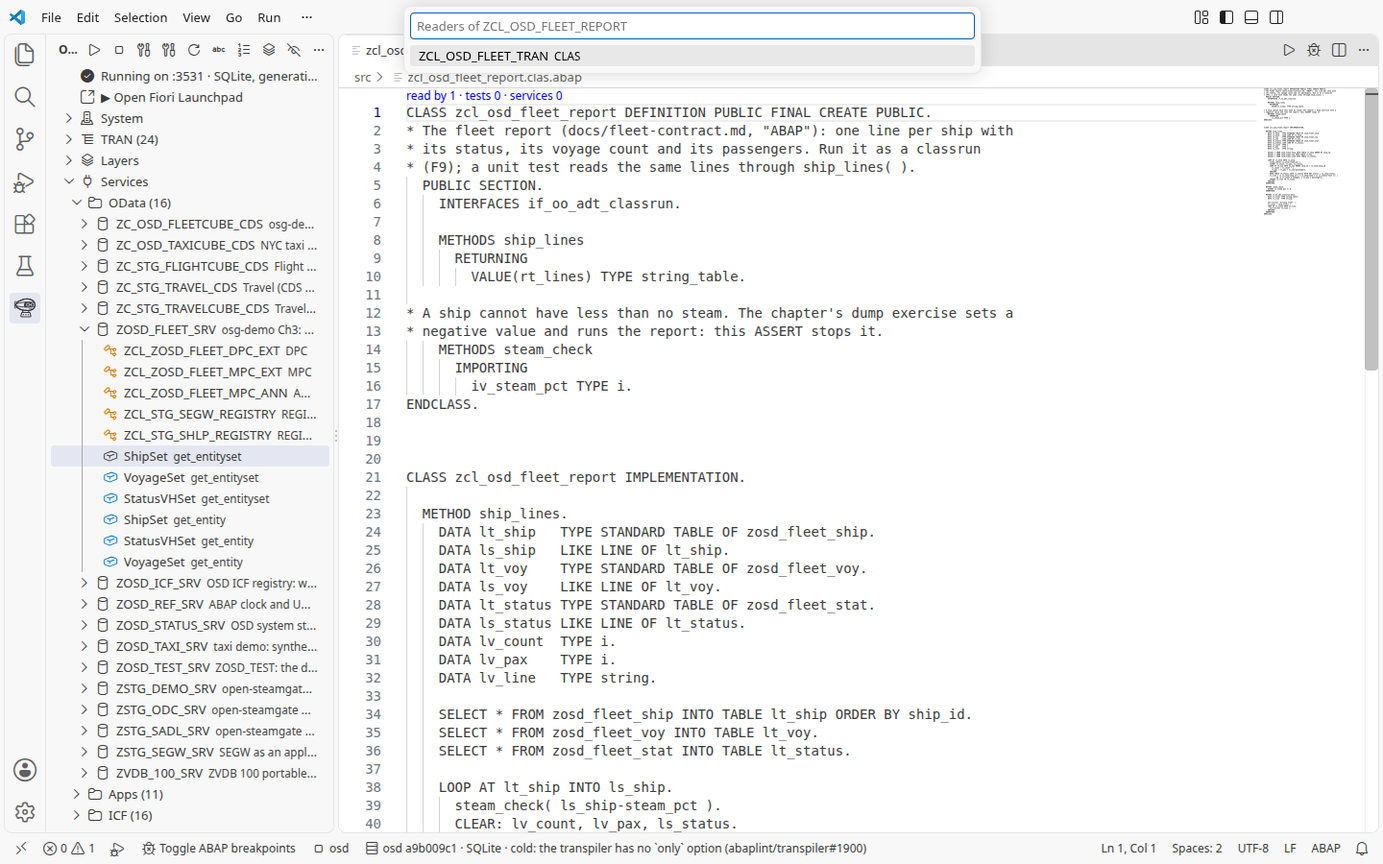
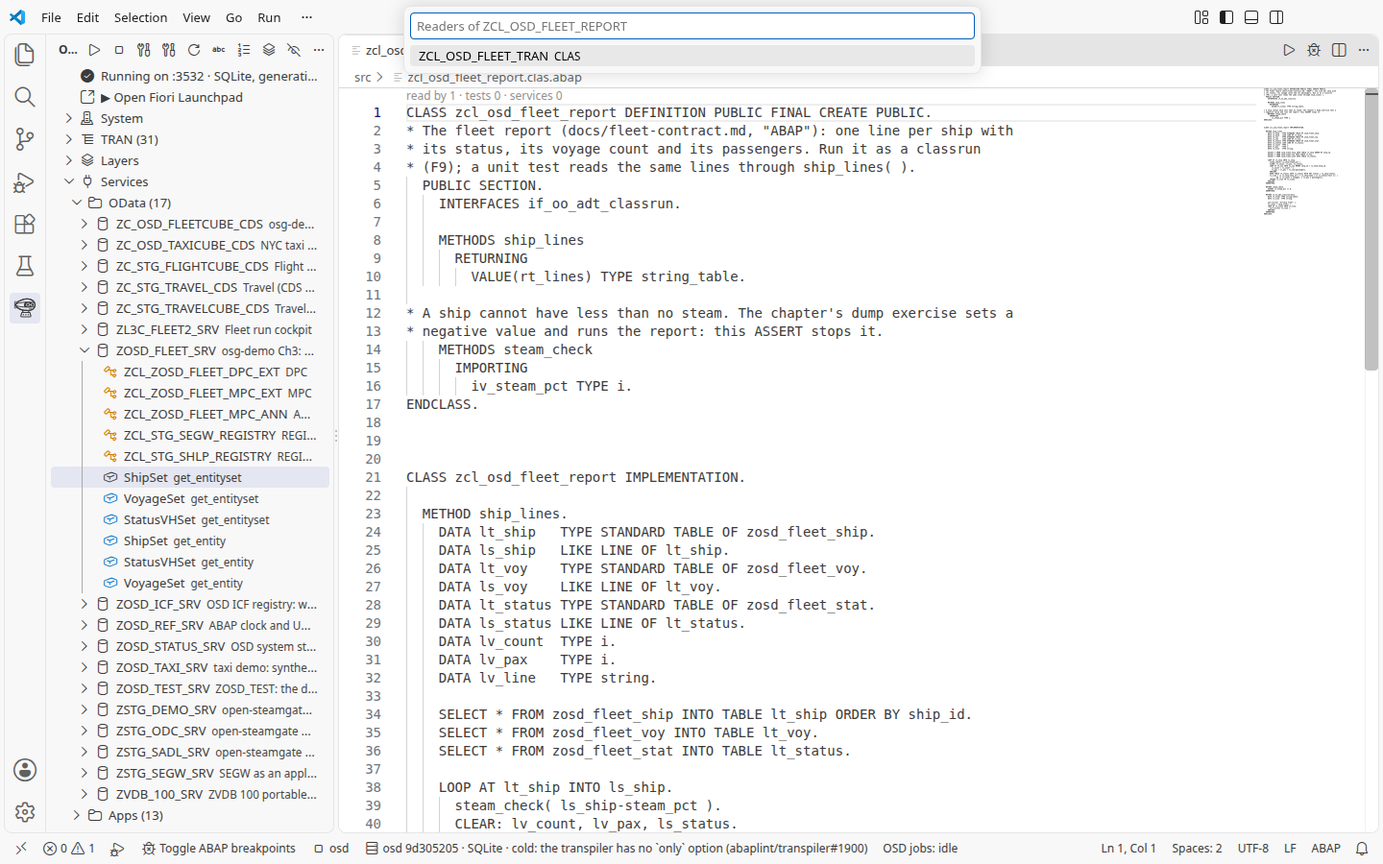
Refresh EN and RU book pictures for VS Code 0.6.1621

Changed region(s): [[0.0625, 0.3733, 0.2188, 0.9644], [0.2812, 0.9644, 0.6875, 0.9956], [0.2812, 0.0933, 0.4062, 0.1244]]

diff --git a/book/ru/15-vscode.md b/book/ru/15-vscode.md
@@ -15,7 +15,11 @@
 диагностику. Ссылки на описание поддержки объясняют замечание. Сканер
 проверяет известные конструкции; чистое представление не доказывает, что
 весь объект активируется на системе.
-<!-- shot: диагностика OSD kernel в Problems и ссылка на описание поддержки -->
+
+На снимке показана временная правка примера Мандельброта: байтовые операнды
+заменены целыми числами для демонстрации диагностики.
+
+![Problems: OSD kernel отклоняет BIT-AND для целых чисел; ссылка ведёт к объяснению поддержки](../img/vscode-kernel-diagnostic.png)
 
 Поведение отладчика и обработчика описано в
 [руководстве расширения на теге](https://github.com/oisee/open-steamgate/blob/vscode-v0.6.1621/editors/vscode/README.md);
@@ -37,8 +41,7 @@
    «redefined» с номером строки и ссылкой на нее; остальные - «inherited
    (generic)».
 
-   <!-- shot: vscode-services — обновить для новой версии расширения и строки состояния -->
-   ![Представление System: ZOSD_FLEET_SRV с классами и методами наборов сущностей, и ее описание](../img/vscode-services.png)
+   ![ZOSD_FLEET_SRV: классы и методы entity set в System, рядом сведения о сервисе и модели](../img/vscode-services.png)
 
 3. Щелкните **ShipSet get_entityset**. Ожидается: открывается
    [zcl_zosd_fleet_dpc_ext.clas.abap](../../src/zcl_zosd_fleet_dpc_ext.clas.abap)
@@ -59,8 +62,7 @@
    классу. В последнем запросе есть `$filter`, и над ним написано
    `unresolved: query options are unsupported`.
 
-   <!-- shot: vscode-http-lens — обновить для новой версии расширения и строки состояния -->
-   ![http/fleet.http: над каждым простым GET метод DPC, в который он входит; запрос с $filter не сопоставлен с методом](../img/vscode-http-lens.png)
+   ![Статические маршруты CodeLens над тремя обычными GET; запрос с $filter остаётся unresolved](../img/vscode-http-lens.png)
 
 5. Щелкните строку над `GET` запроса **All ships**. Ожидается: класс DPC
    открывается на строке 112, `shipset_get_entityset`.
@@ -82,7 +84,9 @@
    запрос останавливается на точке останова. Variables и подсказка показывают
    значения ABAP; структуры раскрываются в компоненты, таблицы — в
    пронумерованные строки, как в главе 2. Остановите сеанс (Shift+F5) и уберите точку.
-   <!-- shot: отладчик в shipset_get_entityset со значениями ABAP -->
+
+   ![Остановка в shipset_get_entityset: переменные запроса показаны как значения ABAP](../img/vscode-debug-entityset.png)
+
 7. Над тем же методом щелкните **▶ Call ShipSet**. Ожидается: рядом с кодом
    отправленный запрос,
    `/sap/opu/odata/sap/ZOSD_FLEET_SRV/ShipSet?$top=20&$format=json`, затем
@@ -90,8 +94,7 @@
    `StatusText`, который заполнил метод. **raw JSON** показывает ответ как
    есть.
 
-   <!-- shot: vscode-call-entityset — обновить для новой версии расширения и строки состояния -->
-   ![Call ShipSet: слева метод DPC, справа его HTTP-ответ таблицей](../img/vscode-call-entityset.png)
+   ![Call ShipSet: код DPC рядом с HTTP 200 и шестью строками кораблей с StatusText](../img/vscode-call-entityset.png)
 
 ## Кто использует этот класс
 
@@ -102,8 +105,7 @@
    открывает его. Собственный тестовый класс лежит в include самого класса и
    в списке не появляется.
 
-   <!-- shot: vscode-readers — обновить для новой версии расширения и строки состояния -->
-   ![Кто использует ZCL_OSD_FLEET_REPORT: один класс](../img/vscode-readers.png)
+   ![Readers для ZCL_OSD_FLEET_REPORT: список показывает ZCL_OSD_FLEET_TRAN](../img/vscode-readers.png)
 
 ## Отправить запросы самому
 

diff --git a/book/ru/02-debug-tests-dumps.md b/book/ru/02-debug-tests-dumps.md
@@ -11,14 +11,12 @@
 | [ZOSD_FLEET_STAT](../../src/ddic/zosd_fleet_stat.tabl.xml) | 3 статуса |
 | [ZC_OSD_FLEETCUBE](../../src/cds/zc_osd_fleetcube.ddls.asddls) | 20 строк рейсов (глава 5) |
 
-<!-- shot: vscode-data-preview — обновить для новой версии расширения и строки состояния -->
-![F8 на ZOSD_FLEET_SHIP: Data Preview с шестью кораблями](../img/vscode-data-preview.png)
+![F8 на ZOSD_FLEET_SHIP: шесть строк кораблей в Data Preview, OSD jobs idle](../img/vscode-data-preview.png)
 
 1. Откройте [ZCL_OSD_FLEET_REPORT](../../src/zcl_osd_fleet_report.clas.abap) и нажмите **F9**. Ожидается: консоль показывает `Airship fleet` и по одной строке на корабль, начиная с `S001 Albatross (Aloft): 6 voyages, 305 passengers` и заканчивая `S006 Old Boiler (Maintenance): 0 voyages, 0 passengers`.
 2. В `ship_lines` поставьте точку останова на `steam_check( ls_ship-steam_pct ).` клавишами **Ctrl+Shift+B** и выполните **osd: Run as ABAP Application with debugger**. Отладчик подключается автоматически. Ожидается: VS Code останавливается на этой строке, в `ls_ship` первый корабль, `S001`. Variables и подсказка при наведении показывают значения ABAP: раскройте `ls_ship`, показанный как `{…} (structure)`, чтобы увидеть компоненты; `ship_id` равен `'S001' (c4)`, а `steam_pct` — `82 (i)`. Таблицы раскрываются в пронумерованные строки. Продолжите клавишей **F8**: пока точка останова на месте, выполнение снова остановится на следующем корабле, поэтому снимите ее (снова **Ctrl+Shift+B**) и нажмите **F8** еще раз; консоль выводит те же шесть строк, что и в шаге 1. После этого остановите сеанс отладки (**Run > Stop Debugging**); F9 и F8 снова запускают код, как только отладчик больше не стоит на строке.
 
-   <!-- shot: vscode-debugger — ABAP structure components and scalar values -->
-   ![Остановка на steam_check: локальные переменные ship_lines и стек вызовов](../img/vscode-debugger.png)
+   ![Остановка на steam_check: компоненты ABAP структуры ls_ship, ship_id S001 и steam_pct 82](../img/vscode-debugger.png)
 
 3. Намеренно сломайте тест. В [тестовом классе](../../src/zcl_osd_fleet_report.clas.testclasses.abap) удалите ведущий `*` у объявления `broken_on_purpose` (строка 11) и у его метода (строки 40-44), нажмите **Ctrl+F3** и запустите тесты `ZCL_OSD_FLEET_REPORT` в Testing. Ожидается: `counts_voyages` зеленый, а `broken_on_purpose` красный с проваленной проверкой: он ожидает `1 voyages` для S006, а отчет выдает `0 voyages`. Верните все шесть `*`, активируйте и перезапустите: остается только `counts_voyages`, зеленый.
 4. Вызовите дамп в отчете. Пар у корабля не может быть отрицательным, и `steam_check` проверяет это с помощью `ASSERT iv_steam_pct >= 0`. Задайте кораблю отрицательный пар через OData (вызовы объясняются в главе 3):

diff --git a/book/15-vscode.md b/book/15-vscode.md
@@ -14,7 +14,11 @@ execution. `warning` lowers their severity; `refuse` also blocks object runs
 and tests; `off` disables these diagnostics. Their support links explain the
 finding. This scanner covers known forms; a clean view does not prove that a
 whole object will activate on a system.
-<!-- shot: OSD kernel diagnostic in Problems and its support link -->
+
+The picture uses a temporary edit of the Mandelbrot example: its byte operands
+are changed to integers to demonstrate the diagnostic.
+
+![Problems: OSD kernel rejects BIT-AND on integers; the diagnostic links to its support explanation](img/vscode-kernel-diagnostic.png)
 
 The debugger and worker behavior is described in the tag's
 [extension guide](https://github.com/oisee/open-steamgate/blob/vscode-v0.6.1621/editors/vscode/README.md);
@@ -36,8 +40,7 @@ The debugger and worker behavior is described in the tag's
    "redefined" with a link to their line; the others are "inherited
    (generic)".
 
-   <!-- shot: vscode-services — refresh for the new extension baseline and status bar -->
-   ![The System view: ZOSD_FLEET_SRV with its classes and entity-set methods, and its details](img/vscode-services.png)
+   ![ZOSD_FLEET_SRV: classes and entity-set methods in System, service and model details beside them](img/vscode-services.png)
 
 3. Click **ShipSet get_entityset**. Expected:
    [zcl_zosd_fleet_dpc_ext.clas.abap](../src/zcl_zosd_fleet_dpc_ext.clas.abap)
@@ -58,8 +61,7 @@ Client, httpYac and JetBrains also read.
    the generated class. The last request has a `$filter` and says
    `unresolved: query options are unsupported`.
 
-   <!-- shot: vscode-http-lens — refresh for the new extension baseline and status bar -->
-   ![http/fleet.http: above each plain GET the DPC method it enters; the $filter request unresolved](img/vscode-http-lens.png)
+   ![Static CodeLens routes above the three plain GETs; the $filter request remains unresolved](img/vscode-http-lens.png)
 
 5. Click the line above the `GET` of **All ships**. Expected: the DPC class
    opens at line 112, `shipset_get_entityset`.
@@ -81,15 +83,16 @@ enters `shipset_get_entityset` too, which reads the filter into ranges. With
    Expected: the request stops on the breakpoint. Variables and hover show
    ABAP values; expand structures to their components and tables to numbered
    rows, as in chapter 2. Stop the session (Shift+F5) and remove the breakpoint.
-   <!-- shot: debugger in shipset_get_entityset with ABAP values -->
+
+   ![Stopped in shipset_get_entityset: request variables displayed as ABAP values](img/vscode-debug-entityset.png)
+
 7. Above the same method, click **▶ Call ShipSet**. Expected: beside the code,
    the request it sent,
    `/sap/opu/odata/sap/ZOSD_FLEET_SRV/ShipSet?$top=20&$format=json`, then
    `HTTP 200`, the time and `6 row(s)`, and the six ships as a table with
    `StatusText` filled by the method. **raw JSON** shows the answer as it came.
 
-   <!-- shot: vscode-call-entityset — refresh for the new extension baseline and status bar -->
-   ![Call ShipSet: the DPC method on the left, its HTTP answer as a table on the right](img/vscode-call-entityset.png)
+   ![Call ShipSet: DPC code beside HTTP 200 and six ship rows with StatusText](img/vscode-call-entityset.png)
 
 ## Who uses this class
 
@@ -100,8 +103,7 @@ enters `shipset_get_entityset` too, which reads the filter into ranges. With
    choice opens it. The class's own test class sits in the class's own
    include and is not listed.
 
-   <!-- shot: vscode-readers — refresh for the new extension baseline and status bar -->
-   ![Readers of ZCL_OSD_FLEET_REPORT: one class uses it](img/vscode-readers.png)
+   ![Readers of ZCL_OSD_FLEET_REPORT: the picker lists ZCL_OSD_FLEET_TRAN](img/vscode-readers.png)
 
 ## Send the requests yourself
 

diff --git a/book/02-debug-tests-dumps.md b/book/02-debug-tests-dumps.md
@@ -11,14 +11,12 @@ To inspect the data, open a definition below and press **F8**. The extension ope
 | [ZOSD_FLEET_STAT](../src/ddic/zosd_fleet_stat.tabl.xml) | 3 statuses |
 | [ZC_OSD_FLEETCUBE](../src/cds/zc_osd_fleetcube.ddls.asddls) | 20 voyage rows (chapter 5) |
 
-<!-- shot: vscode-data-preview — refresh for the new extension baseline and status bar -->
-![F8 on ZOSD_FLEET_SHIP: Data Preview with the six ships](img/vscode-data-preview.png)
+![F8 on ZOSD_FLEET_SHIP: six ship rows in Data Preview, with OSD jobs idle](img/vscode-data-preview.png)
 
 1. Open [ZCL_OSD_FLEET_REPORT](../src/zcl_osd_fleet_report.clas.abap) and press **F9**. Expected: the console shows `Airship fleet` and one line per ship, starting with `S001 Albatross (Aloft): 6 voyages, 305 passengers` and ending with `S006 Old Boiler (Maintenance): 0 voyages, 0 passengers`.
 2. In `ship_lines`, set a breakpoint on `steam_check( ls_ship-steam_pct ).` with **Ctrl+Shift+B** and run **osd: Run as ABAP Application with debugger**. The debugger attaches automatically. Expected: VS Code stops on that line with the first ship, `S001`, in `ls_ship`. Variables and hover show ABAP values: expand `ls_ship`, shown as `{…} (structure)`, to see its components; `ship_id` is `'S001' (c4)` and `steam_pct` is `82 (i)`. Tables expand to numbered rows. Continue with **F8**: it stops again at the next ship while the breakpoint is there, so remove it (**Ctrl+Shift+B** again) and press **F8** once more; the console prints the same six lines as in step 1. Afterwards stop the debug session (**Run > Stop Debugging**); F9 and F8 run again as soon as the debugger no longer stands on a line.
 
-   <!-- shot: vscode-debugger — ABAP structure components and scalar values -->
-   ![Stopped on steam_check: the local variables of ship_lines and the call stack](img/vscode-debugger.png)
+   ![Stopped on steam_check: ls_ship expanded to ABAP components, ship_id S001 and steam_pct 82](img/vscode-debugger.png)
 
 3. Break a test on purpose. In [the test class](../src/zcl_osd_fleet_report.clas.testclasses.abap), remove the leading `*` from the `broken_on_purpose` declaration (line 11) and from its method (lines 40-44), press **Ctrl+F3**, and run the tests of `ZCL_OSD_FLEET_REPORT` in Testing. Expected: `counts_voyages` is green and `broken_on_purpose` is red with a failed assertion: it expects `1 voyages` for S006, and the report says `0 voyages`. Put the six `*` back, activate, and rerun: only `counts_voyages` is left, green.
 4. Make the report dump. A ship cannot have less than no steam, and `steam_check` says so with `ASSERT iv_steam_pct >= 0`. Give a ship negative steam through OData (chapter 3 explains the calls):

diff --git a/book/ru/01-hello.md b/book/ru/01-hello.md
@@ -2,13 +2,11 @@
 
 1. Откройте [ZOSD_DEMO_HELLO](../../src/zosd_demo_hello.clas.abap), поставьте курсор в класс и нажмите **F9**. Ожидается: **osd console** показывает `Hello from ZOSD_DEMO_HELLO.` Если F9 вместо этого ставит точку останова, значит, отладчик остановлен на строке: удалите точки останова ABAP (**Run > Remove All Breakpoints**), остановите сеанс (**Run > Stop Debugging**, Shift+F5) и снова нажмите F9; если F9 по-прежнему переключает точку останова, проверьте, что настройка `osd.keymap` имеет значение `abap`.
 
-   <!-- shot: vscode-classrun — обновить для новой версии расширения и строки состояния -->
-   ![F9 на ZOSD_DEMO_HELLO: osd console печатает приветствие](../img/vscode-classrun.png)
+   ![F9 на ZOSD_DEMO_HELLO: приветствие в osd console и OSD jobs idle](../img/vscode-classrun.png)
 
 2. Откройте Testing, раскройте **Workspace layers > osg-demo > ZOSD_DEMO_HELLO** и запустите `known_line`; либо откройте тестовый include [zosd_demo_hello.clas.testclasses.abap](../../src/zosd_demo_hello.clas.testclasses.abap) и нажмите там **Ctrl+Shift+F10** или откройте сам класс и нажмите **Ctrl+Shift+F10** в нем. Ожидается: один зеленый тест ABAP Unit.
 
-   <!-- shot: vscode-testing — обновить для новой версии расширения и строки состояния -->
-   ![Ctrl+Shift+F10 в классе: один тест ABAP Unit, зеленый](../img/vscode-testing.png)
+   ![Ctrl+Shift+F10: один зелёный тест ABAP Unit и простаивающий обработчик заданий](../img/vscode-testing.png)
 
 3. Измените текст, который возвращает `greeting( )`, нажмите **Ctrl+F2** для проверки, **Ctrl+F3** для сохранения и активации, затем снова **F9**. Ожидается: консоль показывает ваш новый текст. Верните исходный текст, активируйте и перезапустите тест, чтобы он остался зеленым.
 

diff --git a/book/01-hello.md b/book/01-hello.md
@@ -2,13 +2,11 @@
 
 1. Open [ZOSD_DEMO_HELLO](../src/zosd_demo_hello.clas.abap), place the cursor in the class and press **F9**. Expected: the **osd console** shows `Hello from ZOSD_DEMO_HELLO.` If F9 toggles a breakpoint instead, the debugger is stopped at a line: remove the ABAP breakpoints (**Run > Remove All Breakpoints**), stop the session (**Run > Stop Debugging**, Shift+F5) and press F9 again; if it still toggles, check that the setting `osd.keymap` is `abap`.
 
-   <!-- shot: vscode-classrun — refresh for the new extension baseline and status bar -->
-   ![F9 on ZOSD_DEMO_HELLO: the osd console prints the greeting](img/vscode-classrun.png)
+   ![F9 on ZOSD_DEMO_HELLO: the greeting in osd console and OSD jobs idle](img/vscode-classrun.png)
 
 2. Open Testing, expand **Workspace layers > osg-demo > ZOSD_DEMO_HELLO**, and run `known_line`; alternatively open the test include [zosd_demo_hello.clas.testclasses.abap](../src/zosd_demo_hello.clas.testclasses.abap) and press **Ctrl+Shift+F10** there, or in the class itself. Expected: one green ABAP Unit test.
 
-   <!-- shot: vscode-testing — refresh for the new extension baseline and status bar -->
-   ![Ctrl+Shift+F10 in the class: one ABAP Unit test, green](img/vscode-testing.png)
+   ![Ctrl+Shift+F10: one green ABAP Unit test and the supervised jobs worker idle](img/vscode-testing.png)
 
 3. Change the text returned by `greeting( )`, press **Ctrl+F2** to check, **Ctrl+F3** to save and activate, then **F9** again. Expected: the console shows your new text. Restore the original text, activate, and rerun the test to leave it green.
 

diff --git a/book/ru/17-governor.md b/book/ru/17-governor.md
@@ -66,9 +66,12 @@ settings:
 он останавливается сам. Classrun состояния печатает `Doctor: RUNNING since …`
 или `Doctor: STOPPED since …` с данными прохода и таймера. Это локальные
 наблюдения, а не проверка на настоящей системе.
-<!-- shot: состояние watch у стекла с Doctor RUNNING, затем итог с Doctor STOPPED -->
 
-![Бюджет прогона: два попадания, два разных ключа, ни одного закрытого самим, два открытых; события и состояния бюджета до GLASS, CONTINUE человека и снова заполненный бюджет](../img/l3-glass.ru.png)
+![Бюджет прогона: два попадания, два разных ключа, ни одного закрытого самим, два открытых; события и состояния бюджета до GLASS, CONTINUE человека и снова заполненный бюджет; Doctor RUNNING у GLASS и STOPPED после завершения](../img/l3-glass.ru.png)
+
+![Состояние watch у GLASS: Doctor RUNNING, блокировка HELD, одно открытое сообщение](../img/vscode-watch-glass.png)
+
+![После CONTINUE: Doctor STOPPED, блокировка RELEASED, обе проверки DONE и два открытых сообщения](../img/vscode-watch-final.png)
 
 ## Прогон останавливается у стекла
 

diff --git a/book/17-governor.md b/book/17-governor.md
@@ -62,9 +62,12 @@ runner's recovery path itself. At GLASS the daemon stays alive but queues no
 pass; it stops itself when no run holds a lock. The state classrun prints
 `Doctor: RUNNING since …` or `Doctor: STOPPED since …` with pass/tick details.
 These are local observations, not a test on a real system.
-<!-- shot: watch state at GLASS with Doctor RUNNING, then final state with Doctor STOPPED -->
 
-![The run's budget: two hits, two distinct keys, none closed on their own, two open; the run's events and budget states up to GLASS, a person's CONTINUE, and the budget filling again](img/l3-glass.png)
+![The run's budget: two hits, two distinct keys, none closed on their own, two open; the run's events and budget states up to GLASS, a person's CONTINUE, and the budget filling again; Doctor RUNNING at GLASS and STOPPED after completion](img/l3-glass.png)
+
+![Watch state at GLASS: Doctor RUNNING, lock HELD, one open alert](img/vscode-watch-glass.png)
+
+![After CONTINUE: Doctor STOPPED, lock RELEASED, both checks DONE and two open alerts](img/vscode-watch-final.png)
 
 ## The run stops at its glass
 

diff --git a/book/ru/16-orchestration.md b/book/ru/16-orchestration.md
@@ -137,7 +137,9 @@ ID прогона каждый раз другой. У `S002 Nimbus` и `S006 Ol
 SQLite в файле. В VS Code **osd: Start** по умолчанию использует файловый
 SQLite и следит за обработчиком (`osd.jobs.worker=auto`); задания выполняются
 без терминала.
-<!-- shot: состояние OSD jobs и вывод во время выполнения ночного набора -->
+
+![OSD jobs: состояние обработчика и завершённые задания стопок ночного набора](../img/vscode-night-jobs.png)
+
 Чтобы увидеть очередь, как ниже, запустите OSD из checkout с `STG_DB=file`,
 `STG_DB_PATH` и `OSD_PACKS` и выполняйте обработчик сами.
 

diff --git a/book/ru/09-background-jobs.md b/book/ru/09-background-jobs.md
@@ -17,7 +17,8 @@
 показывает состояние обработчика; щелчок открывает его вывод. Выпущенные
 задания выполняются без терминала. Шаги ниже используют checkout и ручной
 запуск обработчика, чтобы показать очередь до и после каждого шага.
-<!-- shot: строка состояния OSD jobs и вывод обработчика для аудита флота -->
+
+![OSD jobs: управляемый обработчик завершает ZOSD_FLEET_AUDIT](../img/vscode-fleet-jobs.png)
 
 1. Запустите OSD с файловой базой данных, например
    `STG_DB=file STG_DB_PATH=/tmp/fleet.sqlite OSD_PACKS=/path/to/osg-demo npm start`

diff --git a/book/ru/00-preface.md b/book/ru/00-preface.md
@@ -23,8 +23,7 @@ ABAP-системе, которая работает внутри VS Code: open-
 ## Об этом издании
 
 Книга написана для расширения VS Code open-steamgate **0.6.1621 или новее**;
-картинки ждут обновления во второй фазе.
-<!-- shot: обновить снимки расширения для версии книги -->
+снимки рабочей среды сделаны с выпущенным расширением **0.6.1621**.
 
 Где глава работает в checkout open-steamgate (главы
 7 и 14, командные строки в других главах, проверки приложения A), берите тег

diff --git a/book/16-orchestration.md b/book/16-orchestration.md
@@ -133,7 +133,9 @@ the 12th, so both checks flag it.
 Mode P is the same set in background jobs. As in chapter 9, this needs SQLite
 in a file. In VS Code, **osd: Start** uses file SQLite by default and
 supervises the worker (`osd.jobs.worker=auto`); the jobs run without a terminal.
-<!-- shot: OSD jobs status and output while the night set runs -->
+
+![OSD jobs: the worker’s status and completed night-set pile jobs](img/vscode-night-jobs.png)
+
 For the queue snapshots below, use the checkout route with `STG_DB=file`,
 `STG_DB_PATH` and `OSD_PACKS`, and drive the worker yourself.
 
